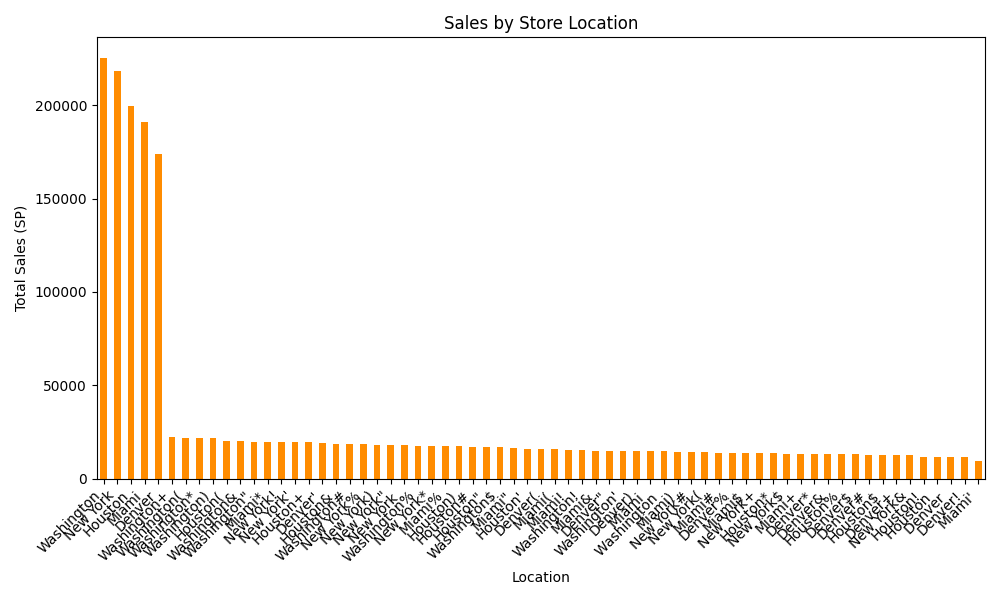
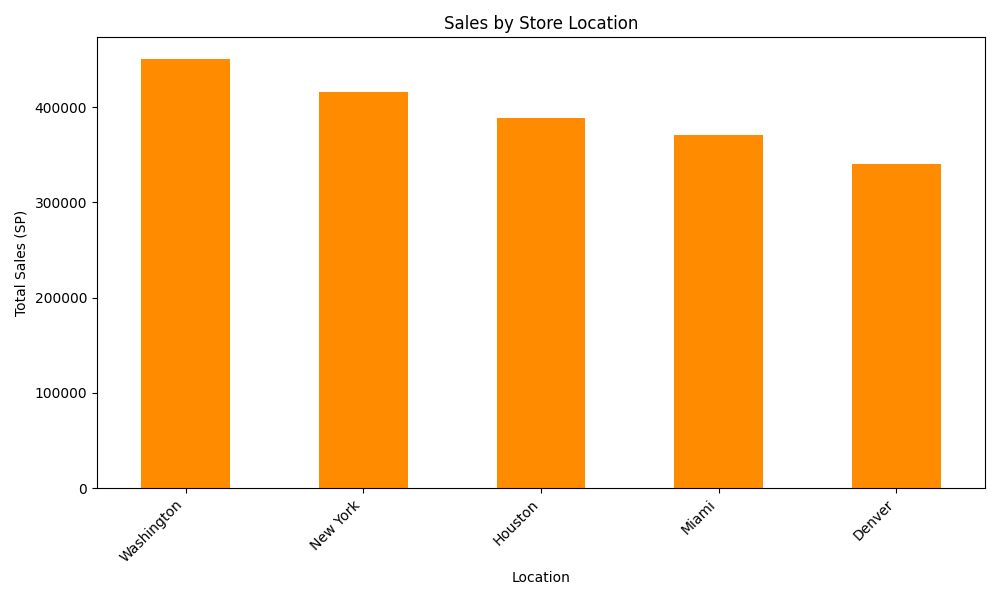
atualization on the project

diff --git a/dags/stores_dag.py b/dags/stores_dag.py
@@ -1,8 +1,12 @@
 from airflow import DAG
 from datetime import datetime as dt, timedelta
 #from airflow.operators.bash import BashOperator # for quick shell tasks or running existing scripts
-from airflow.operators.python import PythonOperator #for flexbility and complex logic 
+from airflow.operators.python import PythonOperator #for flexbility and complex logic
+from airflow.providers.mysql.operators.mysql import MySqlOperator
 import pandas as pd
+import mysql.connector
+import re
+import runpy
 import os
 
 ##########################################################################################
@@ -23,11 +27,12 @@ default_args = {
 dag = DAG(
     dag_id='validate_csv',
     default_args=default_args,
-    description='Validates CSV file and generates sales charts',
+    description='Validates CSV file, generates sales charts, and loads data into MySQL',
     schedule_interval='@daily',  #timedelta([hour,minutes,days])
     catchup=False,   # true= run all missed executions from @start_date -> today | false = ignore the past dates
     max_active_runs=1,
     tags=['store', 'production'], #helps to identify what DAG is for
+    template_searchpath=['/opt/airflow/sql_files'],
 )
 
 
@@ -71,7 +76,45 @@ def show_columns_and_date():
 
 def generate_graphs():
     """Run analysis script"""
-    exec(open('/opt/airflow/script/analysis_sales.py').read())
+    runpy.run_path('/opt/airflow/script/analysis_sales.py')
+
+
+def load_csv_to_mysql():
+    """Load cleaned CSV data into MySQL store_transactions table"""
+    df = pd.read_csv(csv_path)
+
+    # Clean data (same logic as analysis_sales.py)
+    for col in ['MRP', 'CP', 'DISCOUNT', 'SP']:
+        df[col] = df[col].replace(r'[\$,]', '', regex=True).astype(float)
+
+    df['STORE_LOCATION'] = df['STORE_LOCATION'].map(lambda x: re.sub(r'[^\w\s]', '', x).strip())
+    df['PRODUCT_ID'] = df['PRODUCT_ID'].map(lambda x: re.findall(r'\d+', x)[0] if re.findall(r'\d+', x) else x)
+    df.rename(columns={'Date': 'transaction_date'}, inplace=True)
+
+    # Connect and insert
+    conn = mysql.connector.connect(
+        host='airflow_db',
+        database='airflow',
+        user='airflow',
+        password='airflow'
+    )
+    cursor = conn.cursor()
+
+    # Clear old data before loading
+    cursor.execute('TRUNCATE TABLE store_transactions')
+
+    insert_sql = """INSERT INTO store_transactions
+        (STORE_ID, STORE_LOCATION, PRODUCT_CATEGORY, PRODUCT_ID, MRP, CP, DISCOUNT, SP, transaction_date)
+        VALUES (%s, %s, %s, %s, %s, %s, %s, %s, %s)"""
+
+    rows = [tuple(row) for row in df[['STORE_ID', 'STORE_LOCATION', 'PRODUCT_CATEGORY', 'PRODUCT_ID',
+                                       'MRP', 'CP', 'DISCOUNT', 'SP', 'transaction_date']].values]
+    cursor.executemany(insert_sql, rows)
+    conn.commit()
+    print(f'✓ Loaded {len(rows)} rows into store_transactions')
+
+    cursor.close()
+    conn.close()
 
 
 ##########################################################################################
@@ -109,5 +152,32 @@ task_5 = PythonOperator(
     dag=dag,
 )
 
+task_6 = MySqlOperator(
+    task_id='create_mysql_tables',
+    mysql_conn_id='mysql_conn',
+    sql='create_tables.sql',
+    dag=dag,
+)
+
+task_7 = PythonOperator(
+    task_id='load_csv_to_mysql',
+    python_callable=load_csv_to_mysql,
+    dag=dag,
+)
+
+task_8 = MySqlOperator(
+    task_id='insert_sales_by_category',
+    mysql_conn_id='mysql_conn',
+    sql='insert_sales_by_category.sql',
+    dag=dag,
+)
+
+task_9 = MySqlOperator(
+    task_id='insert_sales_by_store',
+    mysql_conn_id='mysql_conn',
+    sql='insert_sales_by_store.sql',
+    dag=dag,
+)
+
 # Pipeline
-task_1 >> task_2 >> task_3 >> task_4 >> task_5
+task_1 >> task_2 >> task_3 >> task_4 >> task_5 >> task_6 >> task_7 >> [task_8, task_9]

diff --git a/script/analysis_sales.py b/script/analysis_sales.py
@@ -1,5 +1,6 @@
 import pandas as pd
 import matplotlib.pyplot as plt
+import re
 import os
 
 # CSV path and output folder
@@ -13,11 +14,28 @@ print("Loading data...")
 df = pd.read_csv(CSV_PATH)
 print(f"Total records: {len(df)}")
 
+
+def clean_store_location(st_loc):
+    return re.sub(r'[^\w\s]',"",st_loc).strip()
+
+
+def clena_product_id(pd_id):
+    result = re.findall(r'\d+',pd_id)
+    if result:
+        return result[0]
+    return pd_id
+
+
+
 for col in ['MRP', 'CP', 'DISCOUNT', 'SP']:
     df[col] = df[col].replace(r'[\$,]', '', regex=True).astype(float)
 
+df['STORE_LOCATION'] = df['STORE_LOCATION'].map(lambda x: clean_store_location(x))
+df['PRODUCT_ID'] = df['PRODUCT_ID'].map(lambda x:clena_product_id(x))
+
+
 # Sales by category
-print("\n1. Generating chart: Sales by Category...")
+print("\n1.Sales by Category...")
 sales_category = df.groupby('PRODUCT_CATEGORY')['SP'].sum().sort_values(ascending=False)
 plt.figure(figsize=(10, 6))
 sales_category.plot(kind='bar', color='steelblue')
@@ -31,7 +49,7 @@ plt.close()
 print("   Saved: 01_sales_by_category.png")
 
 # Sales by store
-print("\n2. Generating chart: Sales by Store...")
+print("\n2.Sales by Store...")
 sales_store = df.groupby('STORE_LOCATION')['SP'].sum().sort_values(ascending=False)
 plt.figure(figsize=(10, 6))
 sales_store.plot(kind='bar', color='darkorange')
@@ -45,7 +63,7 @@ plt.close()
 print("   Saved: 02_sales_by_store.png")
 
 # Discount distribution
-print("\n3. Generating chart: Discount Distribution...")
+print("\n3.Discount Distribution...")
 plt.figure(figsize=(10, 6))
 plt.hist(df['DISCOUNT'], bins=20, color='green', edgecolor='black', alpha=0.7)
 plt.title('Discount Distribution')
@@ -57,7 +75,7 @@ plt.close()
 print("   Saved: 03_discount_distribution.png")
 
 # Profit margin by category
-print("\n4. Generating chart: Profit Margin by Category...")
+print("\n4.Profit Margin by Category...")
 df['MARGIN'] = df['SP'] - df['CP']
 margin_category = df.groupby('PRODUCT_CATEGORY')['MARGIN'].mean().sort_values(ascending=False)
 plt.figure(figsize=(10, 6))
